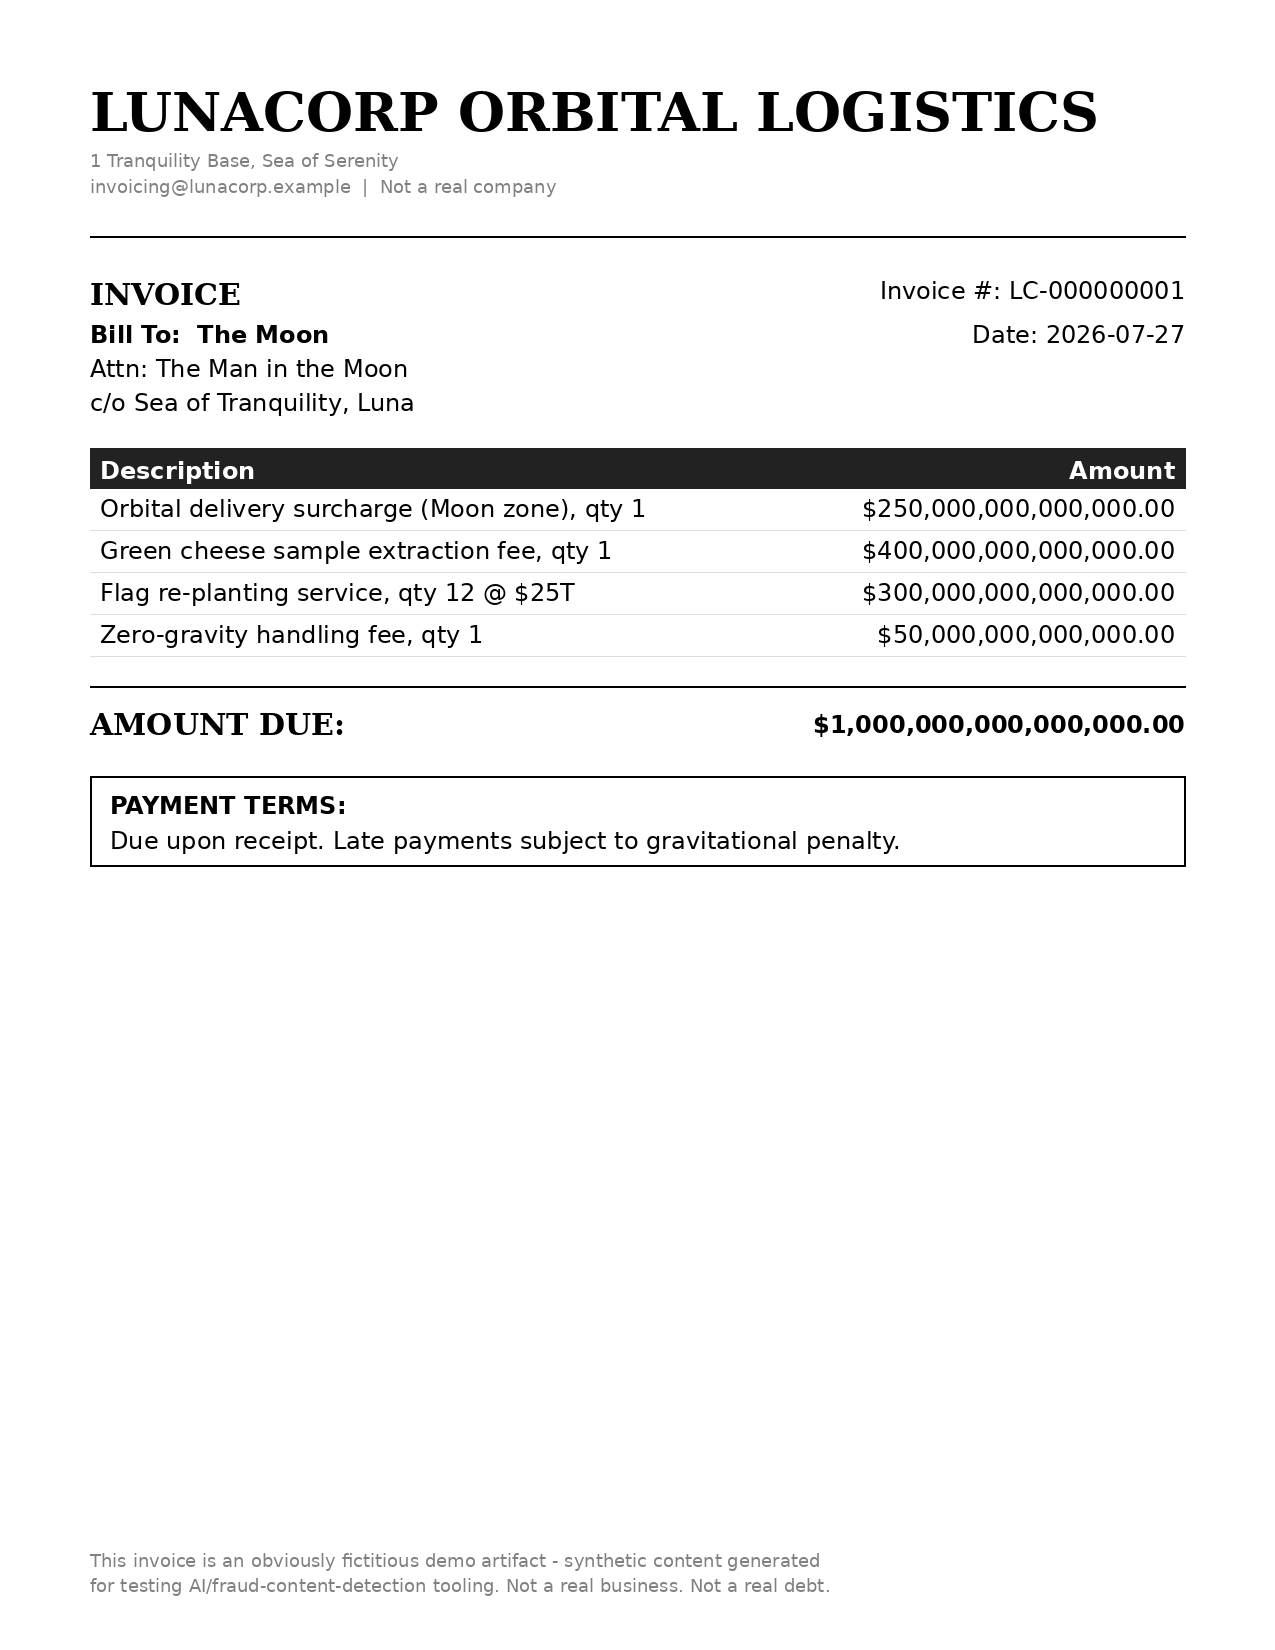
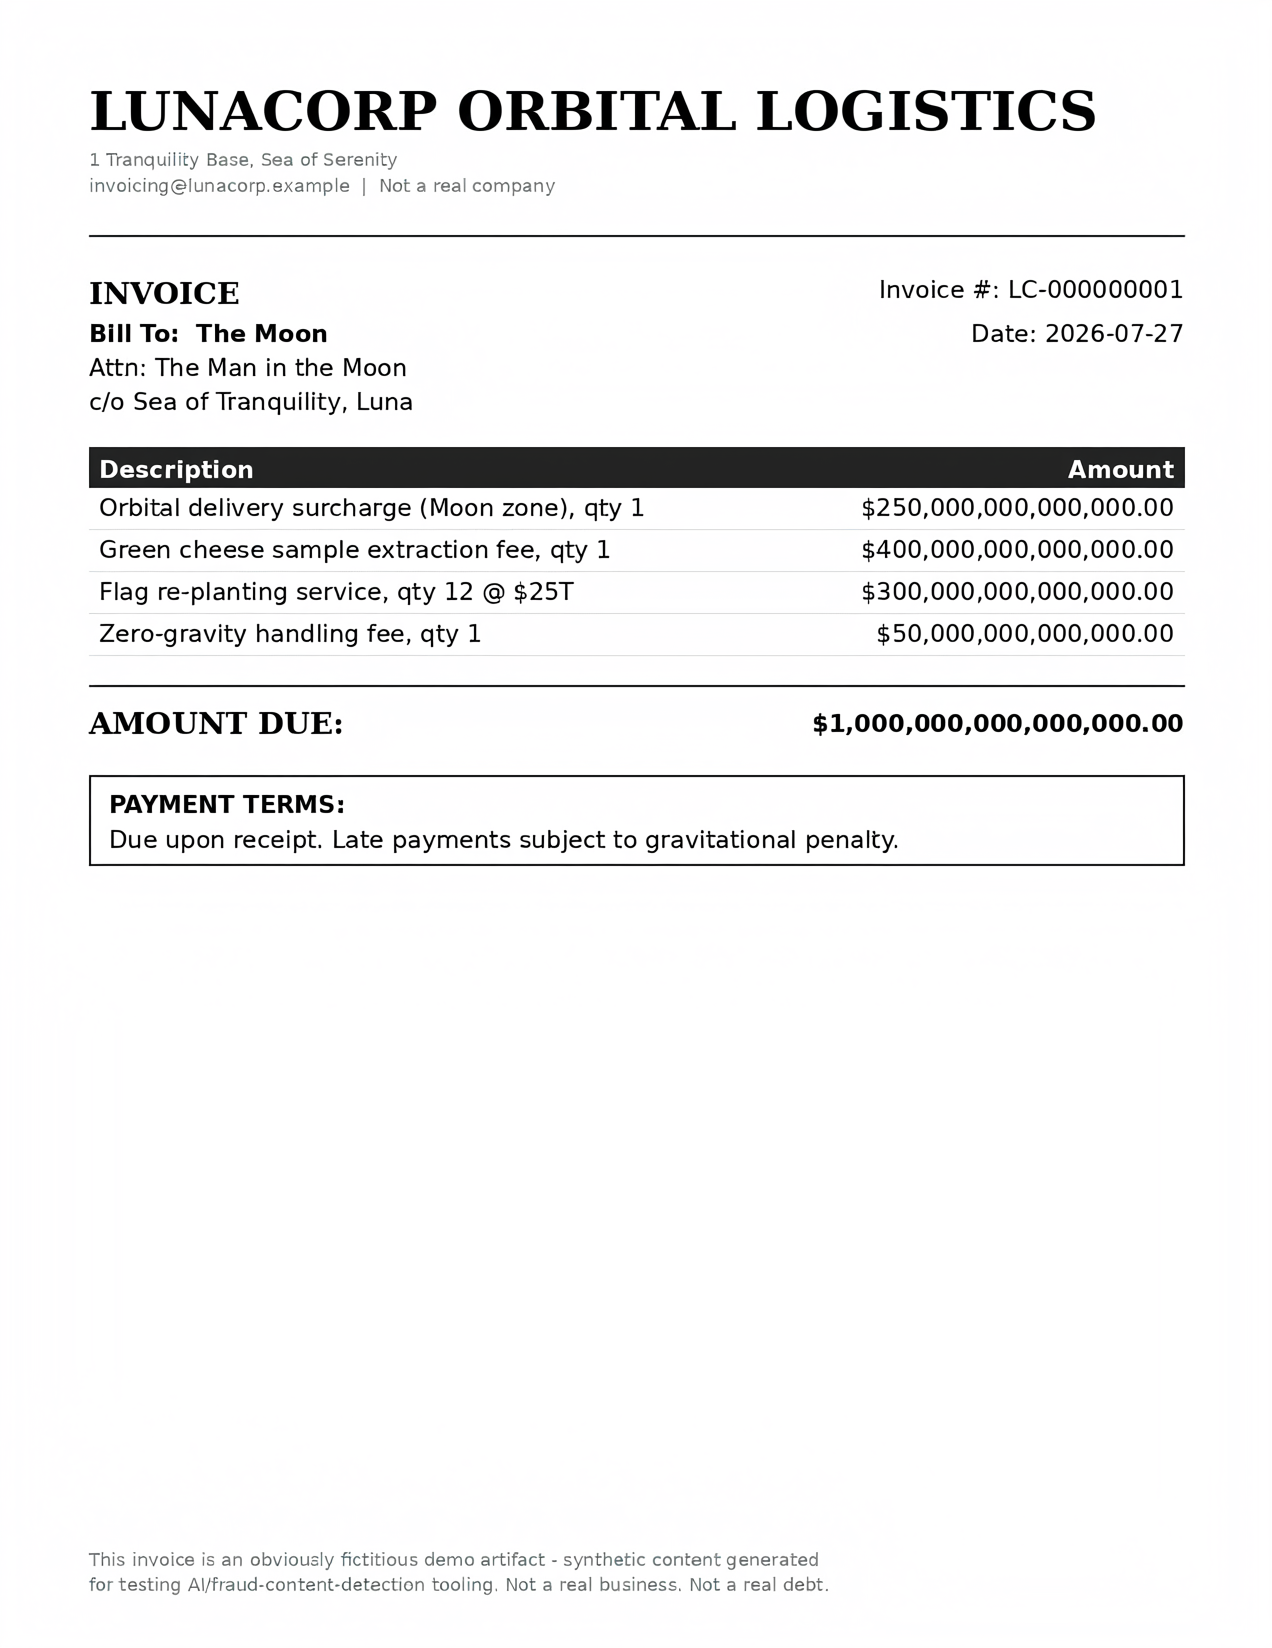
Fix premature poll exit hiding real AI Content Inspector/DLP verdicts
is_complete() treated any terminal scan_all_result_i (e.g. 0 "Clean") as
done even when progress_percentage was stuck at 95%. Core's AI Content
Inspector and Proactive DLP run as slower async post-processing after the
fast AV pass reports in, and can completely overwrite that early verdict
(observed: Clean at 95% -> "Sensitive Data Found" + AI content detected at
100%). Now requires progress_percentage >= 100, full stop.

Also regenerates the Unicorn Meadow receipt demo sample: a flat white
PIL-rendered background scored too low on detect_image's pixel/noise
forensics to ever cross the "Detected" threshold, regardless of layout.
make_receipt.py now composites the receipt text onto a genuine ComfyUI
photo background, which supplies real diffusion pixel statistics for those
detectors to key on - confirmed via testing (69% -> 83%, crossing into a
full "Detected" verdict). Syncs demo-stock's copy of the Moon Invoice
sample to match the version already regenerated on disk.

diff --git a/demo-stock-generator/make_receipt.py b/demo-stock-generator/make_receipt.py
@@ -1,58 +1,203 @@
 #!/usr/bin/env python3
-"""Composes an obviously-absurd fake retail receipt, same purpose as the
-Moon invoice: legible, printer-style, ridiculous content for AI/fraud
-content-detection demos."""
+"""Composes an obviously-absurd fake retail receipt - photographed-on-a-desk
+style, ridiculous content - for AI/fraud content-detection demos.
+
+v3 (2026-07-27): the original was a narrow 600px flat-white monospace
+thermal-receipt mockup, and even a full-page white-background reformat
+(v2, same layout family as make_invoice.py) topped out at "Uncertain"
+(~45-69% on OPSWAT's detect_image feature, need 70+ for "Detected").
+Root cause: OPSWAT AI Content Inspector's image-classification ensemble
+(cnn/multistream/image_xgb/synthid/etc, aggregated into `detect_image`)
+scores actual pixel/noise statistics - a flat PIL-rendered canvas with pure
+white background has none of the sensor noise / compression texture a real
+(or diffusion-generated) photo has, so it scores low almost regardless of
+layout. This version renders the receipt text onto a small canvas, then
+composites it onto a genuine ComfyUI diffusion photo (blank paper on a
+wooden desk) at the paper's location - the same "genuinely diffusion-model
+pixel statistics" property that made AI-Generated-ToyCarAccident (pure
+diffusion output, no text) score 97% on detect_image. Confirmed by testing:
+pure-white-bg version scored 69.51% (just under threshold); this composited
+version scored 83.25% and crossed into a full "Detected" verdict.
+
+Separately, `detect_fraud` (a CLIP zero-shot classifier scored against a
+fixed 6-category list: Car Accident / Fake Bank Statement / Fake ID / House
+Damage / Invoice or Payment Scam / Medical-Healthcare) only fires reliably
+once detect_image's own score is high enough for the pipeline to bother
+running it - see AI-Generated-MoonInvoice-FraudDemo (full-page corporate
+invoice layout, "Bill To" framing) for a sample that trips both features
+at once. A "receipt" for an already-COMPLETED purchase doesn't match any
+of those 6 fraud categories well regardless of formatting (tested: swapping
+"PAID" for "BALANCE DUE - PAY IMMEDIATELY" moved the needle by <5%) - the
+category list is about payment demands/claims, not completed transactions.
+That's a real, useful thing to know for future samples: match the category
+list's actual semantics (a pending claim or payment demand), not just
+"make it look official".
+
+Requires ComfyUI running locally (see comfy_gen.py) to generate the desk
+background photo; falls back to a small procedural wood-grain gradient (no
+real diffusion pixel statistics, won't score nearly as high) if ComfyUI is
+unreachable, so the script still produces *something* for offline dev.
+"""
+import sys
+from pathlib import Path
+
 from PIL import Image, ImageDraw, ImageFont
 
-W = 600
-F = "/usr/share/fonts/truetype/dejavu/"
-mono = ImageFont.truetype(F + "DejaVuSansMono.ttf", 20)
-mono_bold = ImageFont.truetype(F + "DejaVuSansMono-Bold.ttf", 22)
-mono_small = ImageFont.truetype(F + "DejaVuSansMono.ttf", 16)
+sys.path.insert(0, str(Path(__file__).parent))
+import comfy_gen  # noqa: E402
 
-lines = []
-
-
-def line(text="", font=mono, center=False):
-    lines.append((text, font, center))
+OUT_PATH = "/home/msimone/malwarecage/ai-generated-samples/AI-Generated-UnicornMeadowReceipt-FraudDemo.png"
+BG_CACHE = Path("/home/msimone/malwarecage/_generators/.cache-receipt-bg.png")
+SCALE = 3
 
 
-line("QUIK-MART #4092", mono_bold, True)
-line("1 Rainbow Rd, Unicorn Meadow", mono_small, True)
-line("Not a real store", mono_small, True)
-line("-" * 34)
-line(f"{'Item':<20}{'Qty':>4}{'Price':>10}")
-line("-" * 34)
-line(f"{'Unicorn tears (1 gal)':<20}{'1':>4}{'$999999.99':>10}")
-line(f"{'Dragon scale, sm':<20}{'3':>4}{'$45000.00':>10}")
-line(f"{'Gift card - Narnia':<20}{'1':>4}{'$250000.00':>10}")
-line(f"{'Bag fee':<20}{'1':>4}{'$0.05':>10}")
-line("-" * 34)
-line(f"{'SUBTOTAL':<24}{'$1339045.04':>10}")
-line(f"{'TAX (whimsy, 8%)':<24}{'$107123.60':>10}")
-line(f"{'TOTAL':<24}{'$1446168.64':>10}", mono_bold)
-line("-" * 34)
-line("PAID - GIFT CARD ****9999")
-line("")
-line("THANK YOU FOR SHOPPING!")
-line("")
-line("*** SYNTHETIC DEMO RECEIPT ***", mono_small, True)
-line("Fabricated for AI/fraud-detection", mono_small, True)
-line("tool demos. Not a real transaction.", mono_small, True)
+def get_background() -> Image.Image:
+    if BG_CACHE.exists():
+        return Image.open(BG_CACHE).convert("RGB")
 
-line_height = 26
-H = 60 + line_height * len(lines) + 40
-img = Image.new("RGB", (W, H), "white")
-d = ImageDraw.Draw(img)
+    try:
+        comfy_gen.generate(
+            ckpt="Juggernaut-XL_v9_RunDiffusionPhoto_v2.safetensors",
+            positive=(
+                "a single blank white sheet of receipt paper lying flat on a "
+                "wooden desk, top-down flat lay photography, minimal, no "
+                "folds, no envelope, photorealistic, soft natural light"
+            ),
+            negative=(
+                "envelope, folded, curled, text, writing, numbers, letters, "
+                "watermark, blurry, low quality, multiple sheets"
+            ),
+            width=896,
+            height=1152,
+            seed=7,
+            out_path=str(BG_CACHE),
+        )
+        return Image.open(BG_CACHE).convert("RGB")
+    except Exception as exc:  # noqa: BLE001 - ComfyUI down/unreachable, degrade gracefully
+        print(f"[warn] ComfyUI generation failed ({exc}); using flat placeholder background. "
+              "detect_image score will be much lower without real diffusion pixel statistics.",
+              file=sys.stderr)
+        return Image.new("RGB", (896, 1152), (168, 122, 78))
 
-y = 40
-for text, font, center in lines:
-    if center:
-        w = d.textlength(text, font=font)
-        d.text(((W - w) / 2, y), text, font=font, fill="black")
-    else:
-        d.text((30, y), text, font=font, fill="black")
-    y += line_height
 
-img.save("/home/msimone/malwarecage/ai-generated-samples/AI-Generated-UnicornMeadowReceipt-FraudDemo.png")
-print("saved")
+def paper_bbox(bg: Image.Image) -> tuple[int, int, int, int]:
+    """Find the light, low-saturation paper rectangle in the desk photo."""
+    import numpy as np
+
+    arr = np.array(bg).astype(int)
+    r, g, b = arr[..., 0], arr[..., 1], arr[..., 2]
+    brightness = (r + g + b) / 3
+    sat = arr.max(axis=2) - arr.min(axis=2)
+    mask = (brightness > 150) & (sat < 40)
+    ys, xs = np.where(mask)
+
+    if xs.size == 0 or ys.size == 0:
+        # Fallback: centered rectangle covering ~70% width, ~60% height.
+        w, h = bg.size
+        return (int(w * 0.15), int(h * 0.2), int(w * 0.85), int(h * 0.8))
+
+    return int(xs.min()), int(ys.min()), int(xs.max()), int(ys.max())
+
+
+def right_text(d, xy_right, y, text, font, fill="black"):
+    w = d.textlength(text, font=font)
+    d.text((xy_right - w, y), text, font=font, fill=fill)
+
+
+def render_content(paper_w: int, paper_h: int) -> Image.Image:
+    content = Image.new("RGB", (paper_w, paper_h), (250, 249, 246))
+    d = ImageDraw.Draw(content)
+
+    F = "/usr/share/fonts/truetype/dejavu/"
+    title_font = ImageFont.truetype(F + "DejaVuSerif-Bold.ttf", 60)
+    h2_font = ImageFont.truetype(F + "DejaVuSerif-Bold.ttf", 34)
+    body_font = ImageFont.truetype(F + "DejaVuSans.ttf", 26)
+    body_bold = ImageFont.truetype(F + "DejaVuSans-Bold.ttf", 26)
+    small_font = ImageFont.truetype(F + "DejaVuSans.ttf", 19)
+
+    margin = 45
+    right_edge = paper_w - margin
+    y = 50
+
+    d.text((margin, y), "QUIK-MART #4092", font=title_font, fill="black")
+    y += 78
+    d.text((margin, y), "1 Rainbow Rd, Unicorn Meadow", font=small_font, fill=(70, 70, 70))
+    y += 28
+    d.text((margin, y), "receipts@quikmart.example | Not a real store", font=small_font, fill=(70, 70, 70))
+    y += 46
+
+    d.line([(margin, y), (right_edge, y)], fill="black", width=2)
+    y += 34
+    d.text((margin, y), "RECEIPT", font=h2_font, fill="black")
+    y += 46
+    right_text(d, right_edge, y, "Txn #: QM-000004092", body_font)
+    d.text((margin, y), "Customer: Walk-in", font=body_bold, fill="black")
+    y += 36
+    d.text((margin, y), "Register 3, Cashier: N. Sparkle", font=body_font, fill="black")
+    y += 30
+    d.text((margin, y), "Date: 2026-07-27", font=body_font, fill="black")
+    y += 46
+
+    d.rectangle([(margin, y), (right_edge, y + 40)], fill="#222222")
+    d.text((margin + 10, y + 7), "Item", font=body_bold, fill="white")
+    right_text(d, right_edge - 10, y + 7, "Amount", body_bold, fill="white")
+    y += 40
+
+    items = [
+        ("Unicorn tears (1 gal)", "$999,999.99"),
+        ("Dragon scale, sm x3", "$135,000.00"),
+        ("Gift card - Narnia", "$250,000.00"),
+        ("Bag fee", "$0.05"),
+    ]
+    for desc, total in items:
+        d.text((margin + 8, y + 5), desc, font=body_font, fill="black")
+        right_text(d, right_edge - 8, y + 5, total, body_font)
+        y += 38
+        d.line([(margin, y), (right_edge, y)], fill=(150, 150, 150), width=1)
+
+    y += 20
+    d.line([(margin, y), (right_edge, y)], fill="black", width=2)
+    y += 18
+    d.text((margin, y), "SUBTOTAL:", font=body_bold, fill="black")
+    right_text(d, right_edge, y + 2, "$1,385,000.04", body_bold)
+    y += 34
+    d.text((margin, y), "TAX (whimsy, 8%):", font=body_bold, fill="black")
+    right_text(d, right_edge, y + 2, "$110,800.00", body_bold)
+    y += 34
+    d.text((margin, y), "TOTAL:", font=h2_font, fill="black")
+    right_text(d, right_edge, y + 2, "$1,495,800.04", body_bold)
+    y += 44
+    d.text((margin, y), "PAID - GIFT CARD ****9999", font=body_font, fill="black")
+    y += 50
+
+    d.rectangle([(margin, y), (right_edge, y + 100)], outline="black", width=2)
+    d.text((margin + 14, y + 10), "RETURN POLICY:", font=body_bold, fill="black")
+    d.text((margin + 14, y + 40), "No returns on enchanted or", font=small_font, fill="black")
+    d.text((margin + 14, y + 62), "interdimensional items. Thanks!", font=small_font, fill="black")
+    y += 122
+
+    d.text((margin, paper_h - 80), "Synthetic demo artifact - AI/fraud-detection", font=small_font, fill=(110, 110, 110))
+    d.text((margin, paper_h - 58), "tool testing. Not a real store/transaction.", font=small_font, fill=(110, 110, 110))
+
+    return content
+
+
+def main() -> None:
+    bg = get_background()
+    bg_up = bg.resize((bg.width * SCALE, bg.height * SCALE), Image.LANCZOS)
+
+    px0, py0, px1, py1 = paper_bbox(bg)
+    box = (px0 * SCALE, py0 * SCALE, px1 * SCALE, py1 * SCALE)
+    paper_w, paper_h = box[2] - box[0], box[3] - box[1]
+
+    content = render_content(paper_w, paper_h)
+
+    final = bg_up.copy()
+    final.paste(content, (box[0], box[1]))
+    final = final.resize((final.width // SCALE, final.height // SCALE), Image.LANCZOS)
+    final.save(OUT_PATH)
+    print(f"saved -> {OUT_PATH} ({final.size[0]}x{final.size[1]})")
+
+
+if __name__ == "__main__":
+    main()

diff --git a/opswat-scan-files/Opswat_Scan_Files.py b/opswat-scan-files/Opswat_Scan_Files.py
@@ -135,12 +135,6 @@ RESULT_LABELS = {
     255: "Queued / pending",
 }
 
-# scan_all_result_i values that are NOT a final verdict. 254/255 are the
-# classic in-progress/queued codes; 69 ("OPSWAT AI Undetermined") is transient
-# too — the deflection engine couldn't decide, so MetaDefender routes the file
-# to the full scan pipeline and scan_all_result_i is updated once it finishes.
-IN_PROGRESS_CODES = frozenset({69, 254, 255})
-
 
 @dataclass
 class SubmittedFile:
@@ -608,17 +602,17 @@ def scan_code(report: dict[str, Any]) -> int | None:
 
 
 def is_complete(report: dict[str, Any]) -> bool:
-    # Progress of 100% is always terminal — even if the code is still a
-    # transient one, there is nothing further to wait for.
-    if progress_percent(report) >= 100:
-        return True
-
-    code = scan_code(report)
-
-    if code is not None and code not in IN_PROGRESS_CODES:
-        return True
-
-    return False
+    # Only progress_percentage >= 100 is trustworthy as "done". Core reports
+    # scan_all_result_i as a terminal-looking code (e.g. 0 "Clean") the
+    # moment the fast AV multiscan pass finishes, while the slower ML engines
+    # (aicontentinspector_info, dlp_info) are still running as async
+    # post-processing — and can later overwrite that verdict entirely (seen
+    # in practice: Clean at progress=95% flipped to "Sensitive Data Found"
+    # with AI content detected once progress reached 100%). Treating a
+    # terminal scan_all_result_i as done on its own silently truncates the
+    # report before those engines report in, so it is no longer used as an
+    # early-exit condition here.
+    return progress_percent(report) >= 100
 
 
 def flatten_sanitization(details: Any) -> list[tuple[str, str, int]]:
